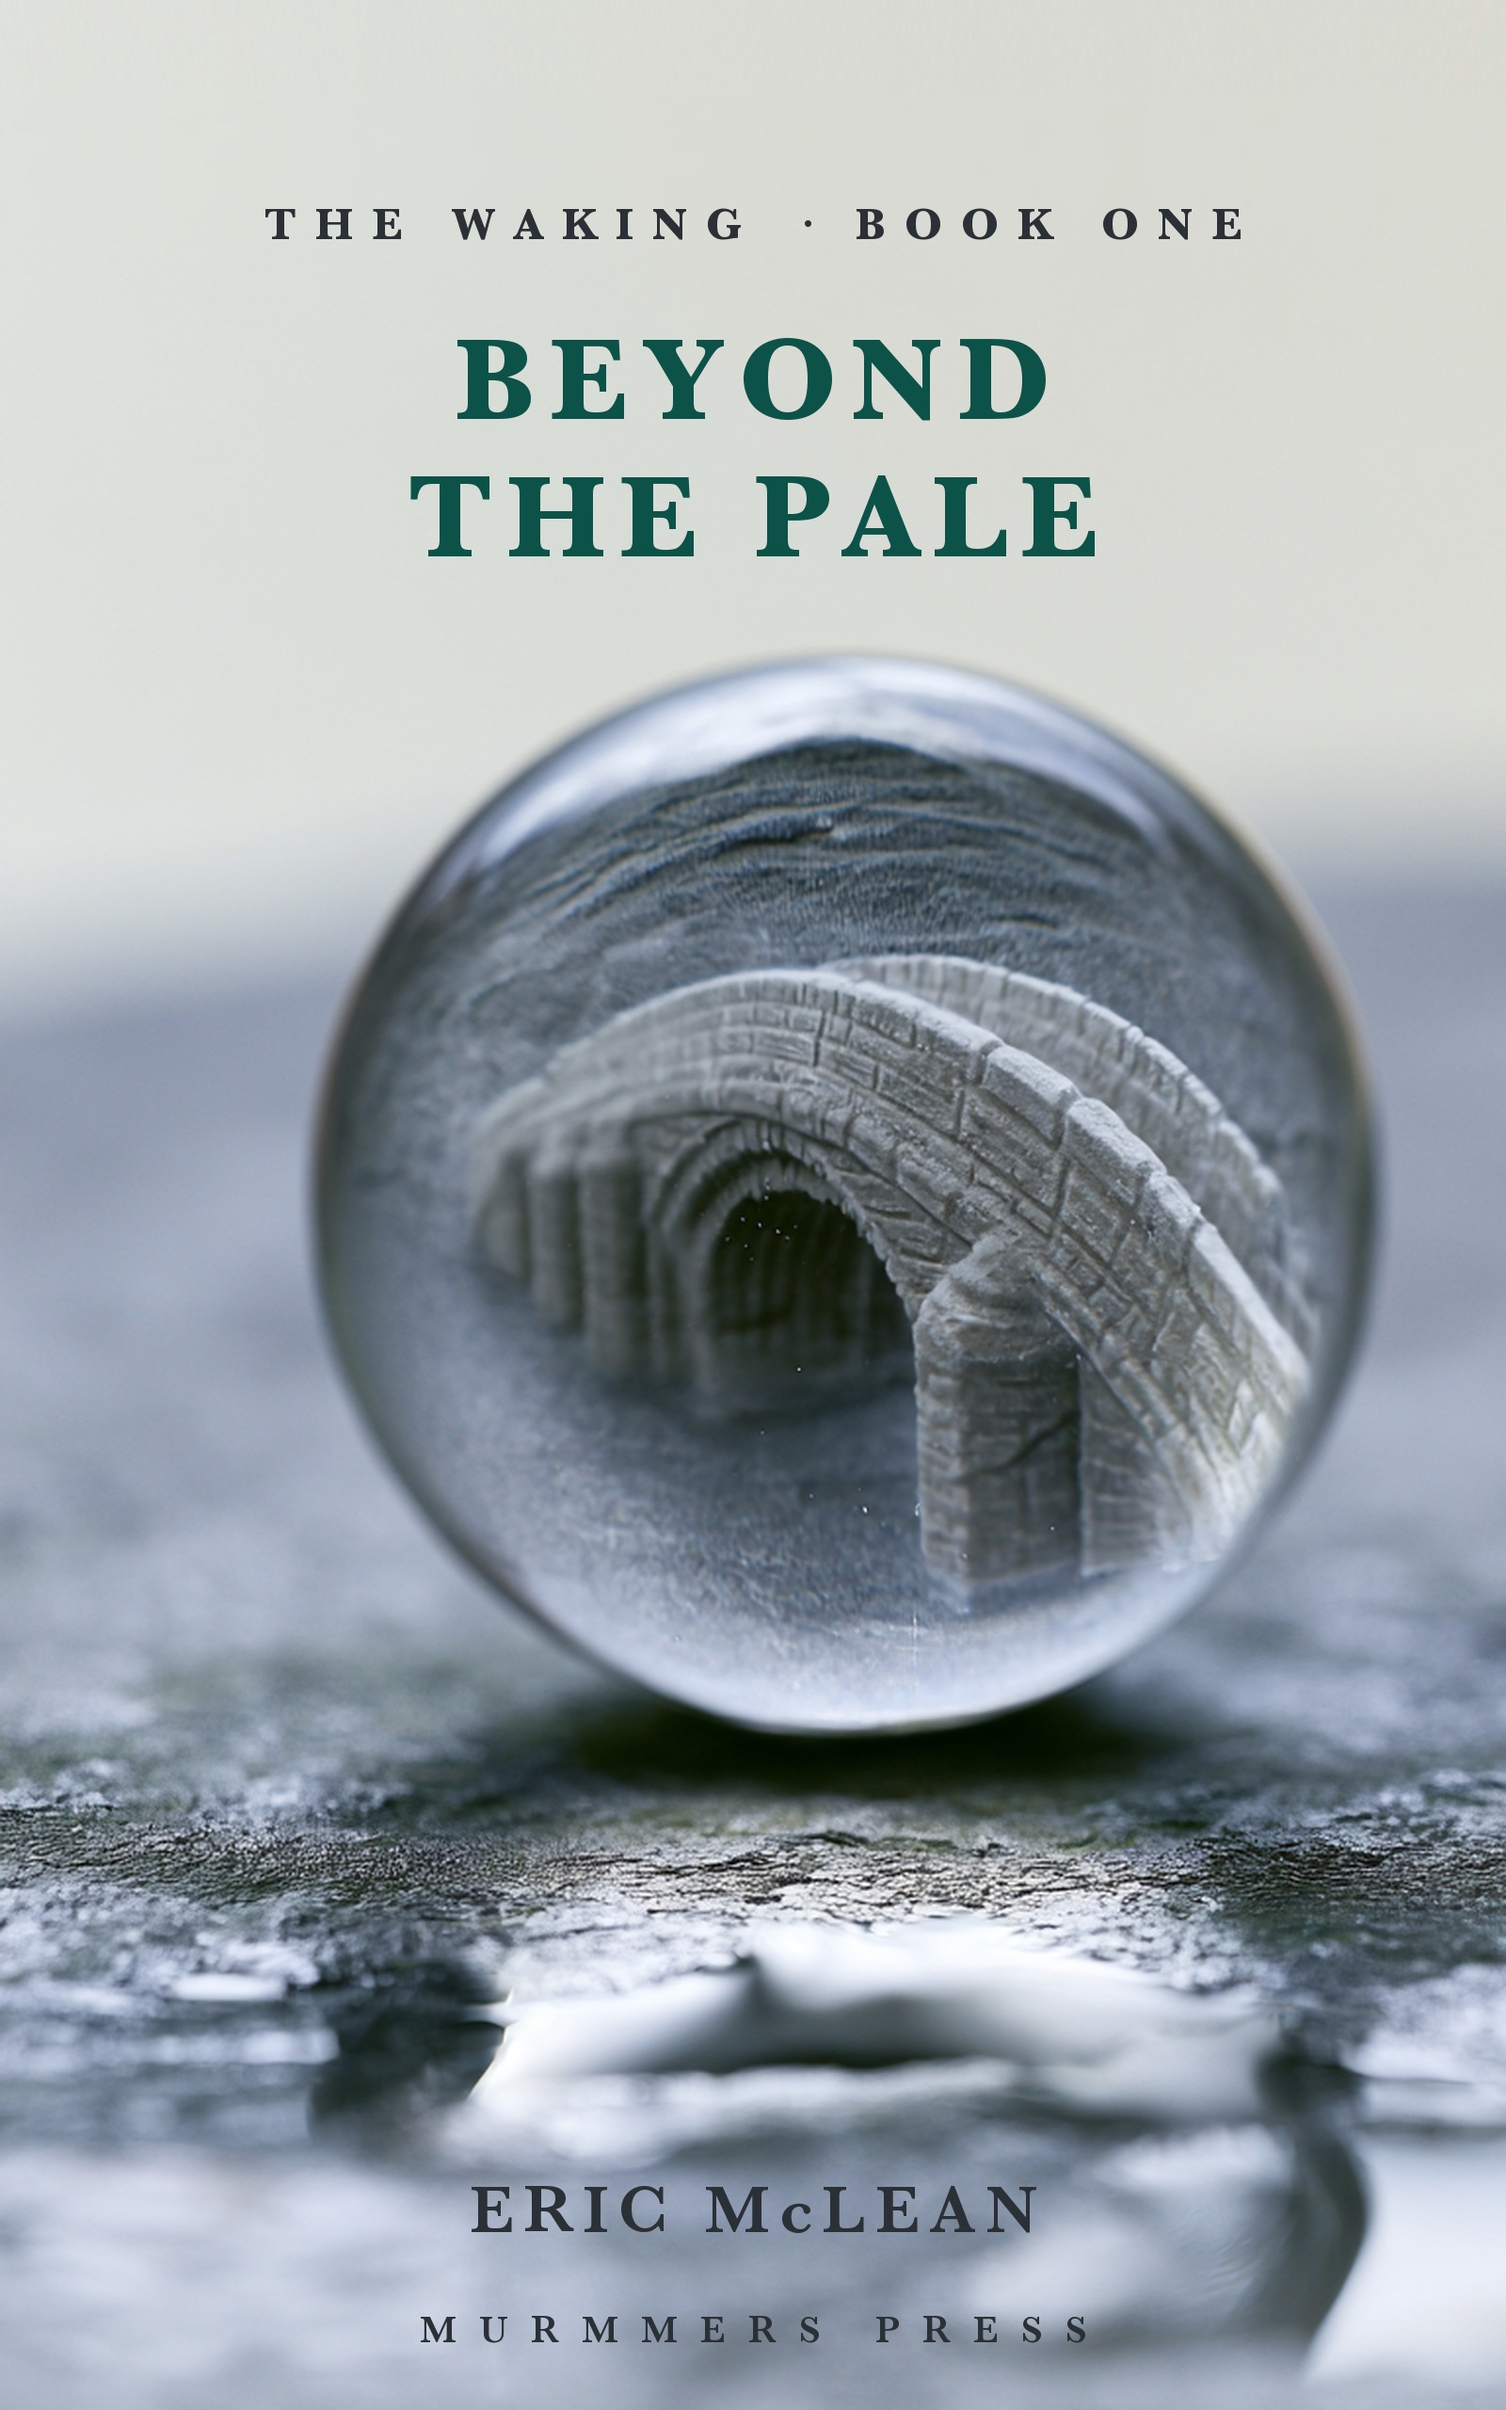
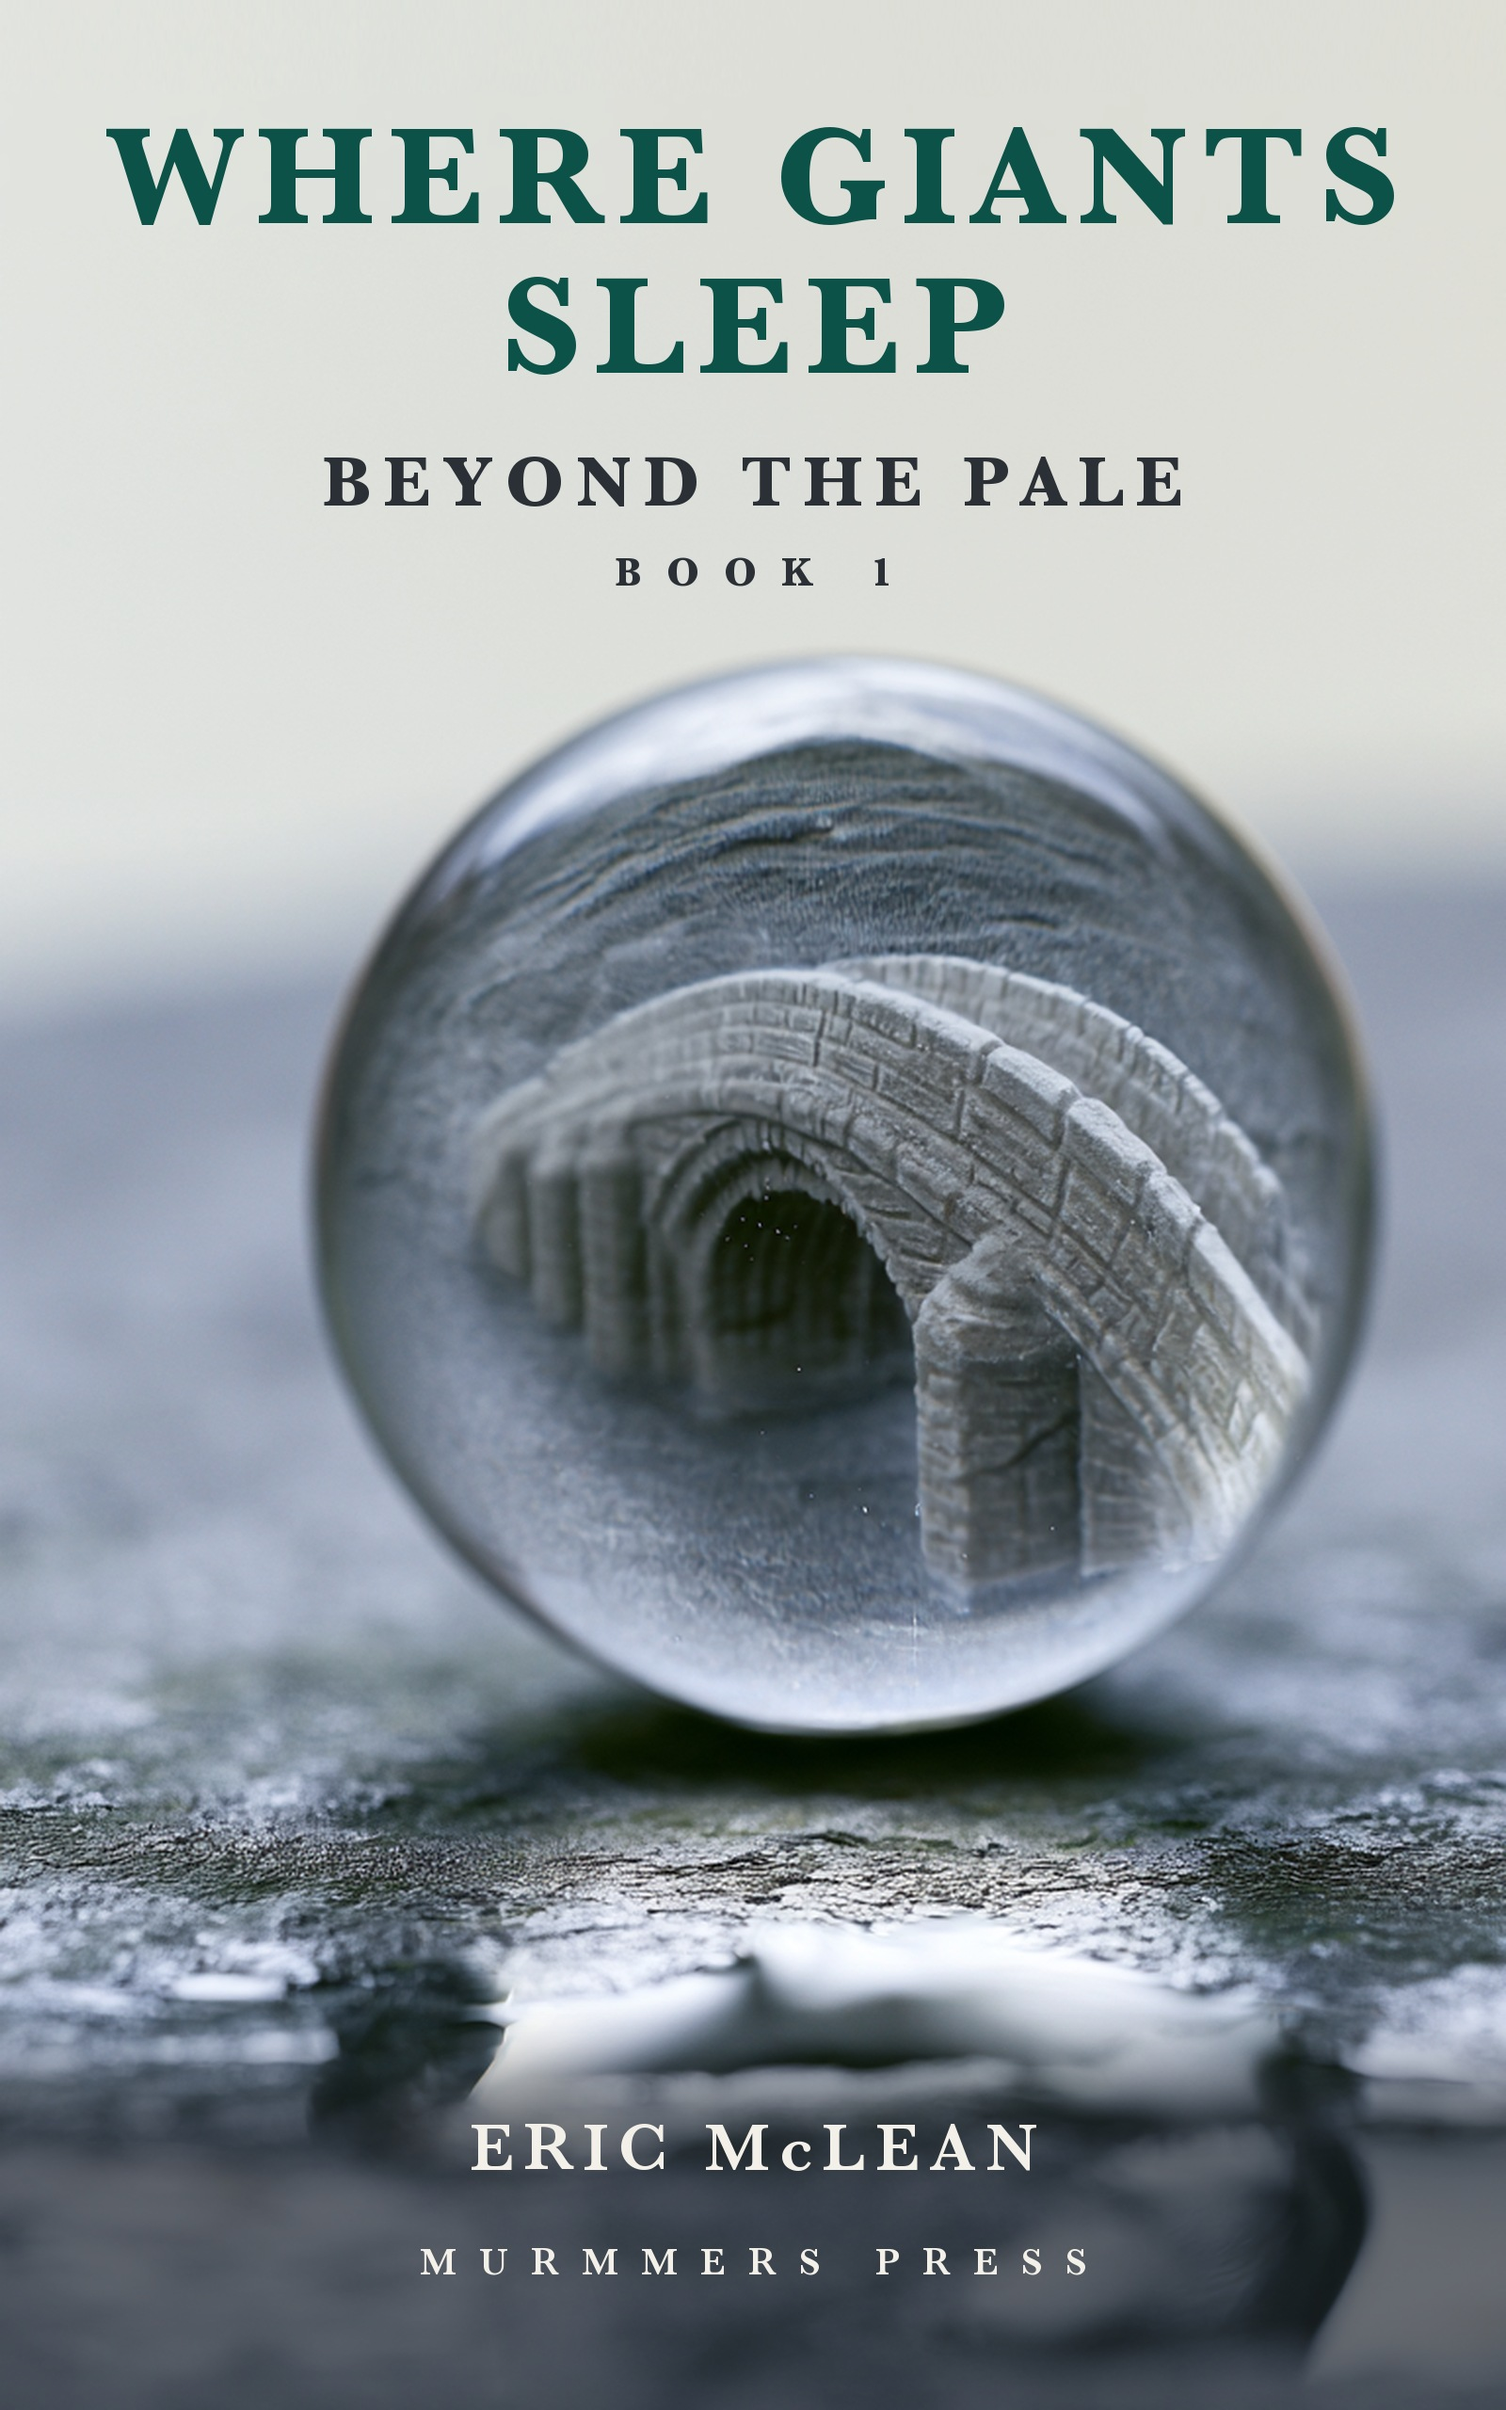
Site: the trilogy is Where Giants Sleep, with the new covers
The series was renamed 2026-08-14 and the site still carried the old
name and the old cover lockups on all three books.

Text: every reference updated in books.json (subtitles, series name,
eyebrows, notes), the series page, the books index, the sitemap and the
studio production line. Zero occurrences of the old name remain in src
or public.

URL: /the-waking/ becomes /where-giants-sleep/, with a 301 from the old
path so anything already linking to it still lands.

Covers: all three replaced with the current lockups, which carry the
series title large on two lines, the book title beneath, and the author
line in white.

Built clean: 15 pages, and the built output has no stale references.

Changed region(s): [[0.0, 0.8438, 1.0, 1.0], [0.0625, 0.0312, 0.9375, 0.25]]

diff --git a/public/studio/production-line.html b/public/studio/production-line.html
@@ -283,7 +283,7 @@
 <header>
   <div class="masthead">
     <div class="wordmark">Murmmers <span>Press</span></div>
-    <div class="sub">Production line · raw draft to revenue · 23 titles · The Waking trilogy submitted 2026-07-21</div>
+    <div class="sub">Production line · raw draft to revenue · 23 titles · Where Giants Sleep trilogy submitted 2026-07-21</div>
     <div class="hint">Drag to pan · arrow keys scroll · click any stage</div>
   </div>
   <nav class="phases" aria-label="Jump to phase">

diff --git a/src/pages/sitemap.xml.ts b/src/pages/sitemap.xml.ts
@@ -11,7 +11,7 @@ export const GET: APIRoute = ({ site }) => {
     '/about/',
     '/how-we-work/',
     '/for-authors/',
-    '/the-waking/',
+    '/where-giants-sleep/',
     ...listed.map((b) => `/books/${b.slug}/`),
   ];
   const body =
